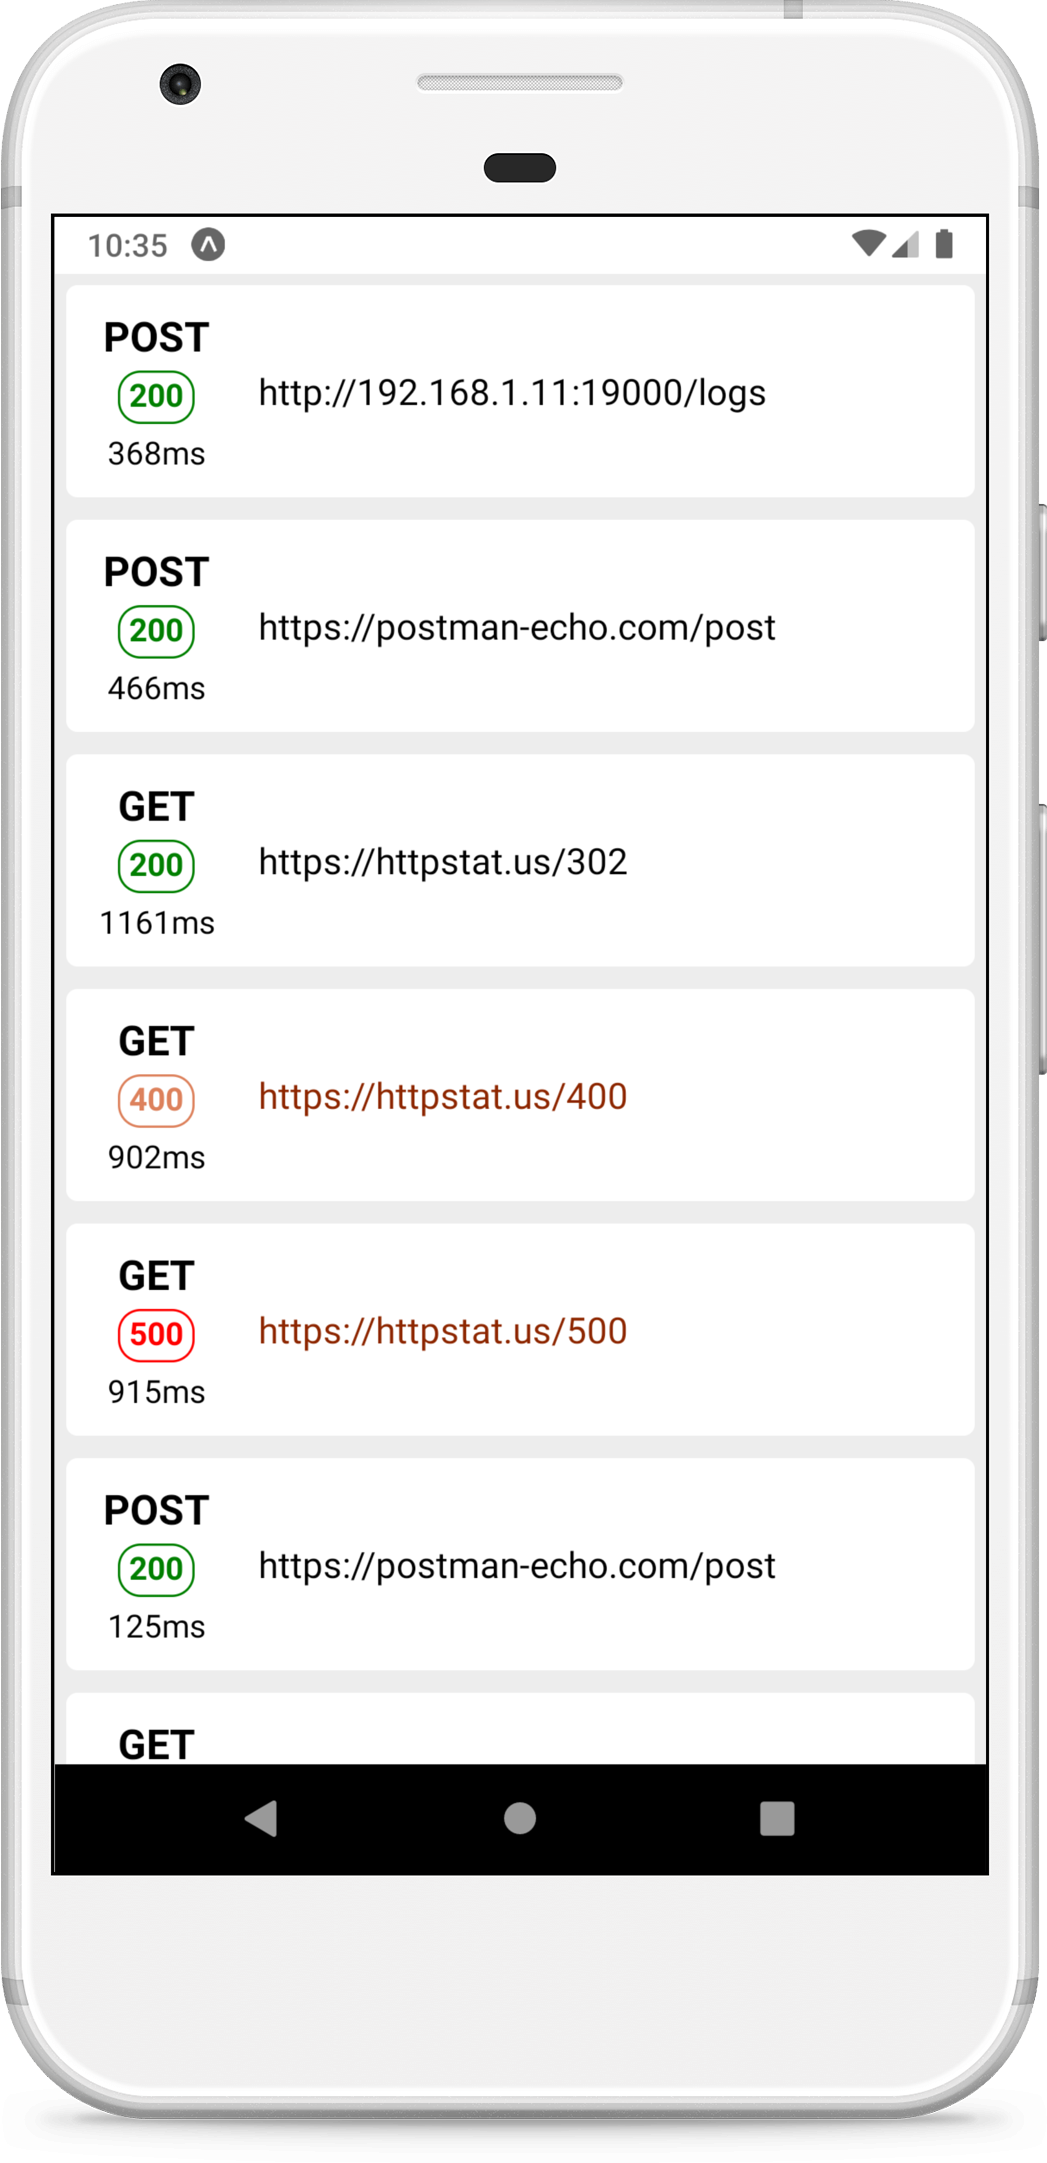
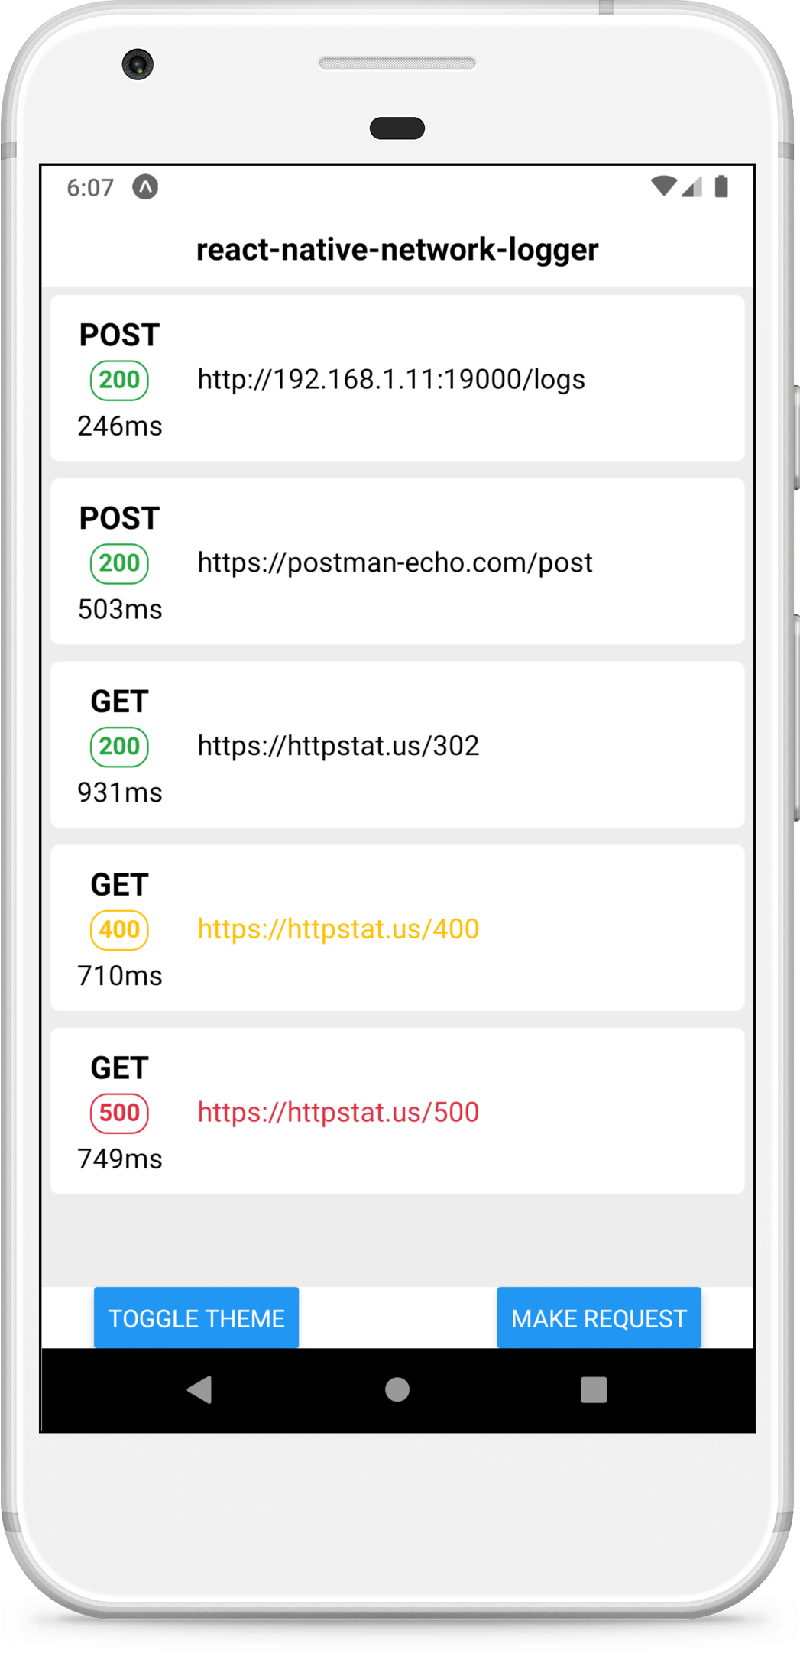
chore: Update screenshots

diff --git a/example/src/App.tsx b/example/src/App.tsx
@@ -1,5 +1,12 @@
 import React, { useState } from 'react';
-import { StyleSheet, Button, SafeAreaView, Platform } from 'react-native';
+import {
+  StyleSheet,
+  Button,
+  SafeAreaView,
+  Platform,
+  View,
+  Text,
+} from 'react-native';
 import NetworkLogger, { ThemeName } from 'react-native-network-logger';
 
 export default function App() {
@@ -12,23 +19,42 @@ export default function App() {
     fetch('https://httpstat.us/400');
     fetch('https://httpstat.us/500');
   };
-  const [theme, setTheme] = useState<ThemeName>('light');
+  const [theme, setTheme] = useState<ThemeName>('dark');
+
+  const styles = themedStyles(theme === 'dark');
 
   return (
     <SafeAreaView style={styles.container}>
-      <Button title="Make request" onPress={makeRequest} />
+      <Text style={styles.title}>react-native-network-logger</Text>
       <NetworkLogger theme={theme} />
-      <Button
-        title="Toggle Theme"
-        onPress={() => setTheme(theme === 'light' ? 'dark' : 'light')}
-      />
+      <View style={styles.bottomView}>
+        <Button
+          title="Toggle Theme"
+          onPress={() => setTheme(theme === 'light' ? 'dark' : 'light')}
+        />
+        <Button title="Make request" onPress={makeRequest} />
+      </View>
     </SafeAreaView>
   );
 }
 
-const styles = StyleSheet.create({
-  container: {
-    flex: 1,
-    paddingTop: Platform.OS === 'android' ? 25 : 0,
-  },
-});
+const themedStyles = (dark = false) =>
+  StyleSheet.create({
+    container: {
+      flex: 1,
+      backgroundColor: dark ? '#2d2a28' : 'white',
+      paddingTop: Platform.OS === 'android' ? 25 : 0,
+    },
+    title: {
+      color: dark ? 'white' : 'black',
+      textAlign: 'center',
+      padding: 10,
+      fontSize: 18,
+      fontWeight: 'bold',
+    },
+    bottomView: {
+      flexDirection: 'row',
+      justifyContent: 'space-between',
+      paddingHorizontal: 30,
+    },
+  });

diff --git a/README.md b/README.md
@@ -28,12 +28,20 @@ An alternative to Wormholy but for both iOS and Android and with zero native dep
   <img src="https://raw.githubusercontent.com/alexbrazier/react-native-network-logger/master/.github/images/ios-list.png" width="300" />
   <img src="https://raw.githubusercontent.com/alexbrazier/react-native-network-logger/master/.github/images/ios-details.png" width="300" /> 
 </p>
+<p float="left" align="center">
+  <img src="https://raw.githubusercontent.com/alexbrazier/react-native-network-logger/master/.github/images/ios-list-dark.png" width="300" />
+  <img src="https://raw.githubusercontent.com/alexbrazier/react-native-network-logger/master/.github/images/ios-details-dark.png" width="300" /> 
+</p>
 
 ### Android
 
 <p float="left" align="center">
   <img src="https://raw.githubusercontent.com/alexbrazier/react-native-network-logger/master/.github/images/android-list.png" width="300" />
   <img src="https://raw.githubusercontent.com/alexbrazier/react-native-network-logger/master/.github/images/android-details.png" width="300" /> 
+</p>
+<p float="left" align="center">
+  <img src="https://raw.githubusercontent.com/alexbrazier/react-native-network-logger/master/.github/images/android-list-dark.png" width="300" />
+  <img src="https://raw.githubusercontent.com/alexbrazier/react-native-network-logger/master/.github/images/android-details-dark.png" width="300" /> 
 </p>
 
 ## Setup
